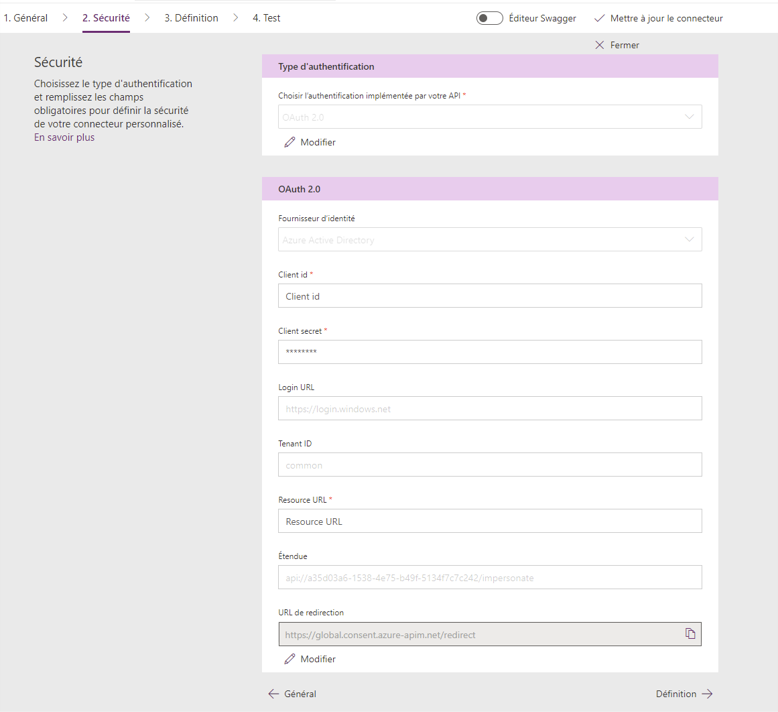
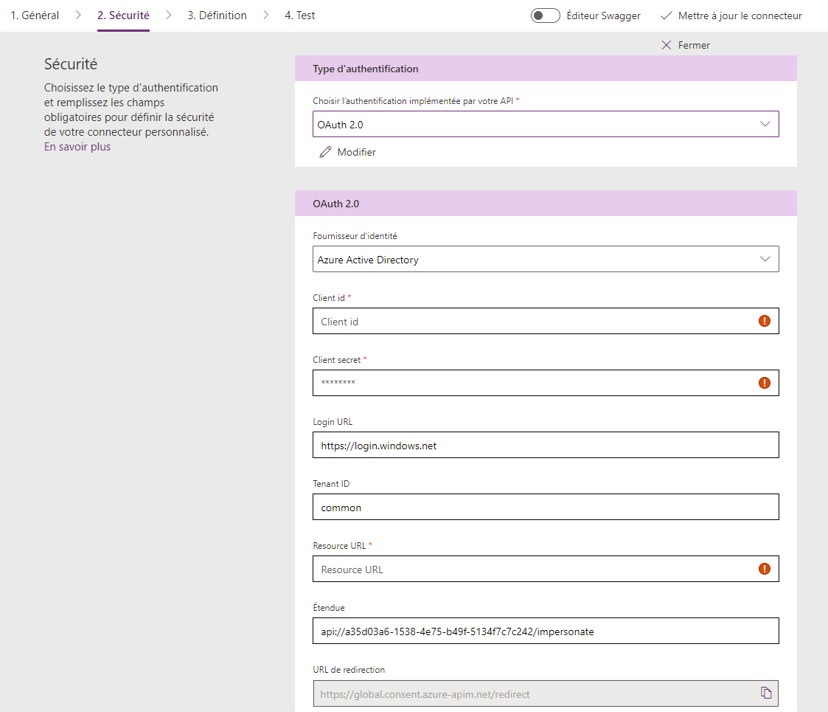
update readme

diff --git a/WebhookForCustomConnector/readme.md b/WebhookForCustomConnector/readme.md
@@ -230,9 +230,27 @@ A ce stade vous devez avoir copié trois paramètres
 
 - l'étendue de l'application
 
-Il nous reste encore un élèment essentiel que nous n'avons pas encore renseigné, mais qui ne peut être que fourni par Logic App/Power Automate lorsqu'on renseigne les différents 
-
+Il nous reste encore un élèment essentiel que nous n'avons pas encore renseigné, mais qui ne peut être que fourni par Logic App/Power Automate lorsqu'on renseigne les différents champs dans l'onglet sécurité
+c'est l'url de redirection. Comme illustré sur la figure suivante :
 ![SECURITY](https://github.com/EricVernie/CustomConnector/blob/main/WebhookForCustomConnector/Doc/Securite.png)
+
+Dans les champs :
+
+Client id : copiez ID d'application (client)
+
+Client Secret : copiez le secret de l'application
+
+Resource Url : copiez ID d'application (client)
+
+Etendue : copiez l'étendue de l'application.
+
+une fois le connecteur enregistré, copiez URL de redirection
+
+>Note : Logic App retourne une URL du style : https://logic-apis-francecentral.consent.azure-apim.net/redirect, Power Automate retourne une URL du style : https://global.consent.azure-apim.net/redirect
+
+
+
+
 
 
 
